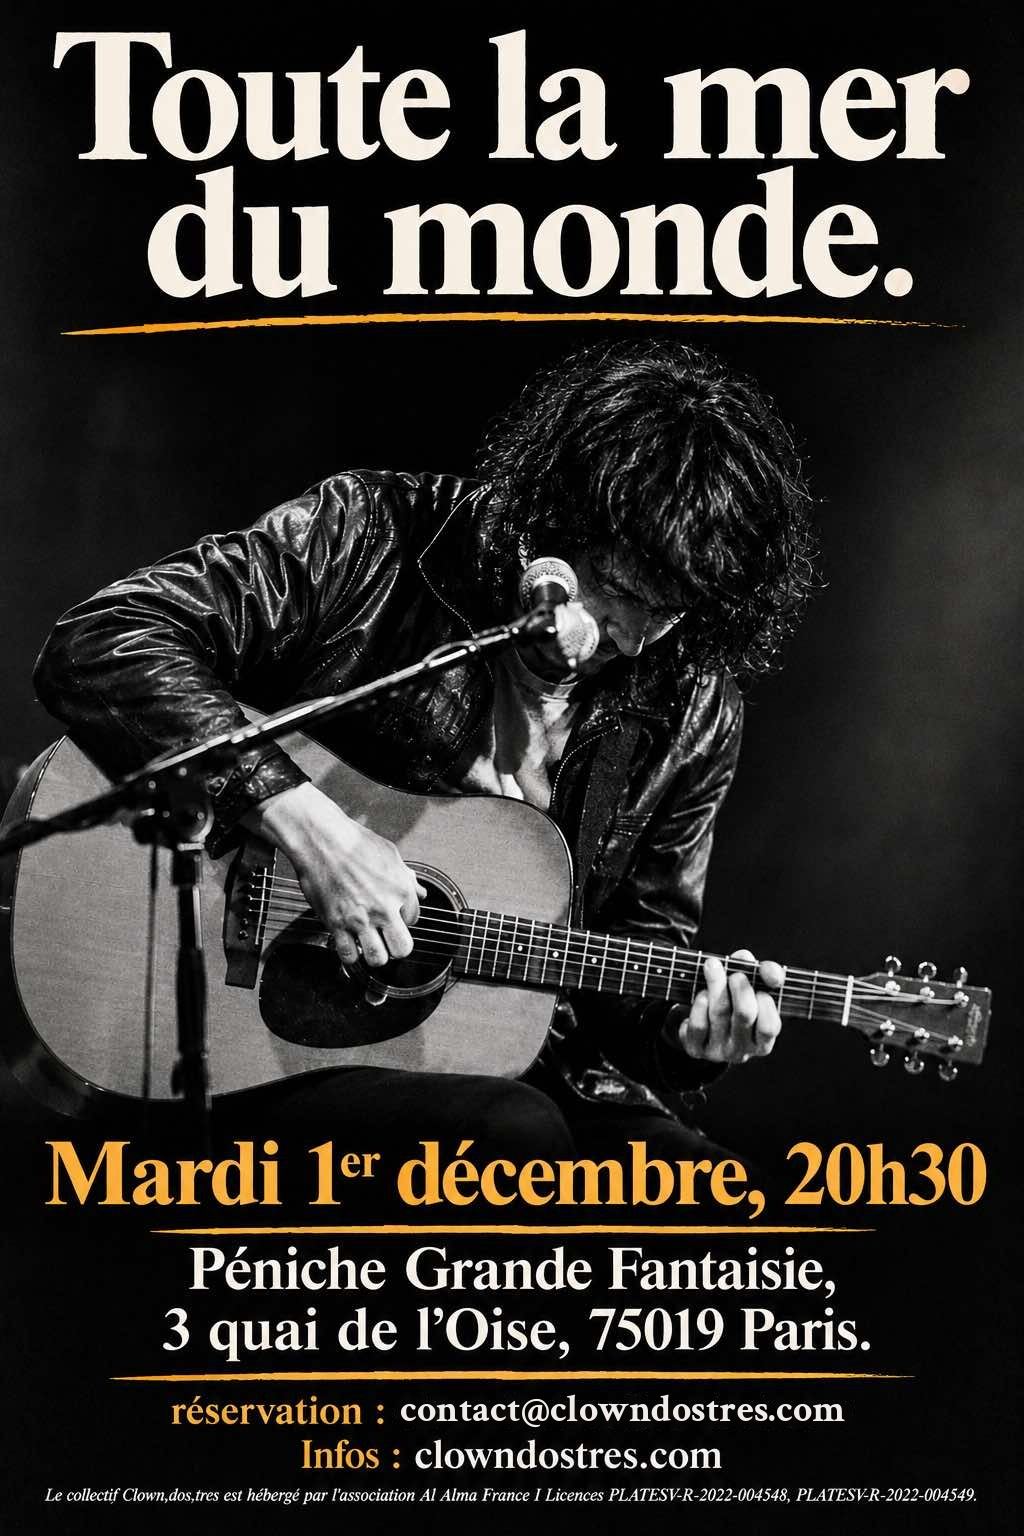
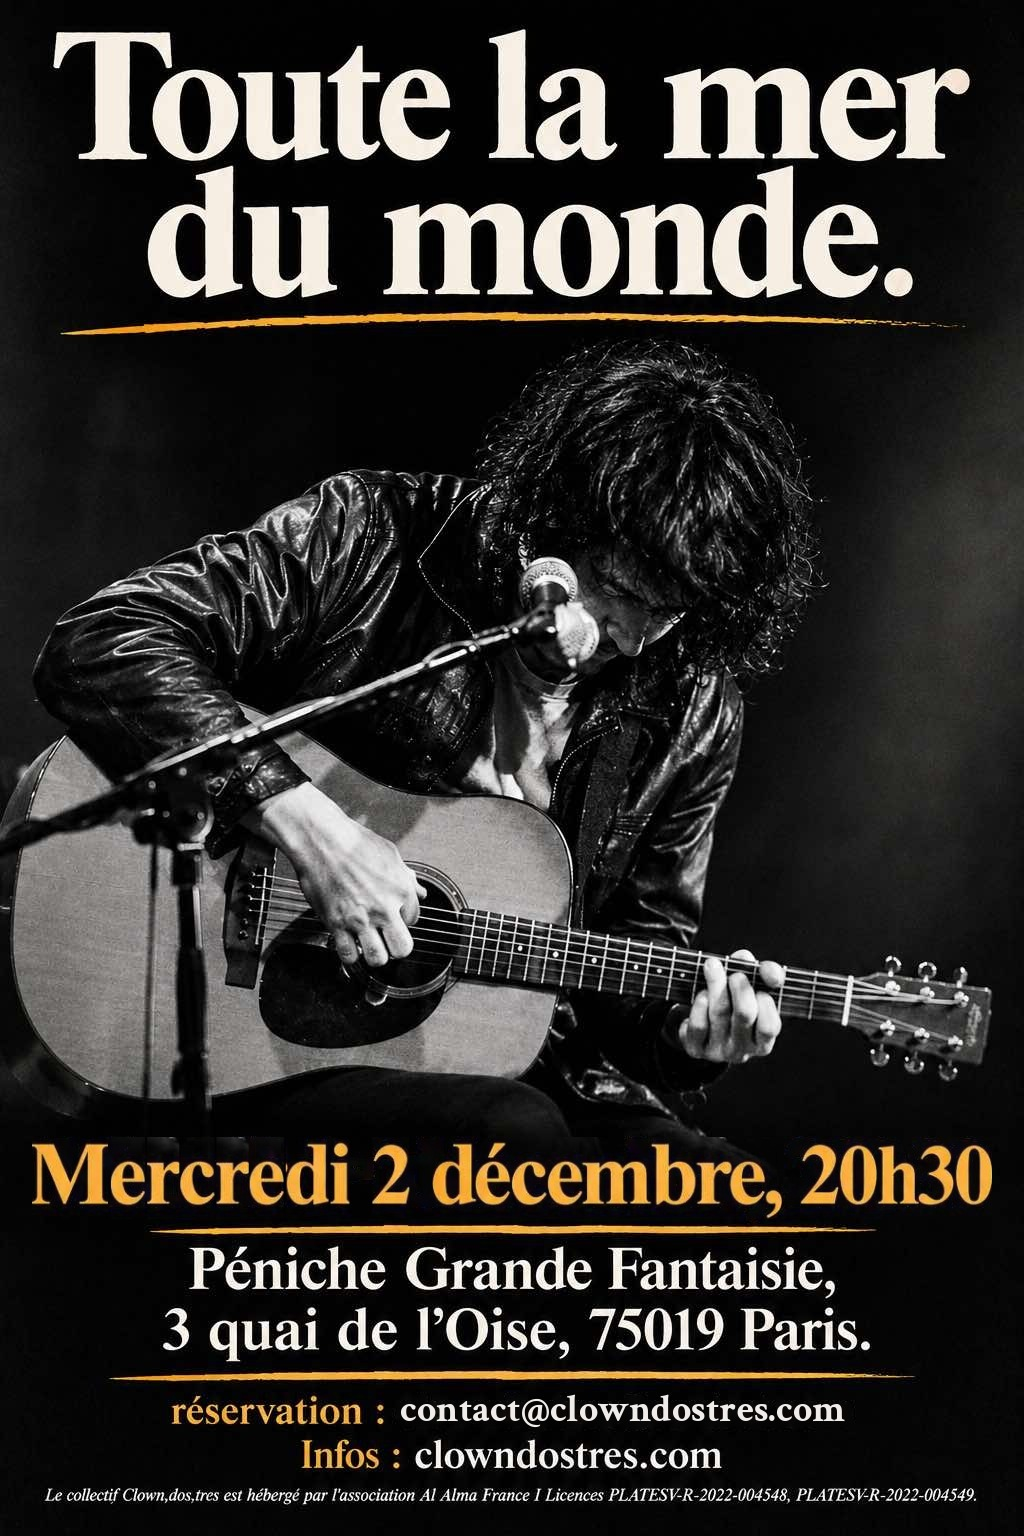
Toute la mer du monde : mercredi 2 décembre (affiche corrigée) ; stage retiré de la une

Changed region(s): [[0.0312, 0.7188, 0.9688, 0.8125]]

diff --git a/src/data/evenements.ts b/src/data/evenements.ts
@@ -77,8 +77,8 @@ export const evenements: Evenement[] = [
 		reservation: true,
 	},
 	{
-		date: 'Mardi 1er décembre 2026',
-		jour: '2026-12-01',
+		date: 'Mercredi 2 décembre 2026',
+		jour: '2026-12-02',
 		debut: '20:30',
 		heure: '20h30 · durée 65 min',
 		titre: 'Toute la mer du monde',
@@ -91,7 +91,7 @@ export const evenements: Evenement[] = [
 		compagnie: 'Alexis Delmastro',
 		type: 'concert',
 		image: merAffiche,
-		imageAlt: 'Affiche du concert Toute la mer du monde : Alexis Delmastro à la guitare, mardi 1er décembre 2026 à 20h30, Péniche Grande Fantaisie',
+		imageAlt: 'Affiche du concert Toute la mer du monde : Alexis Delmastro à la guitare, mercredi 2 décembre 2026 à 20h30, Péniche Grande Fantaisie',
 		photo: merPhoto,
 		photoAlt: 'Alexis Delmastro, guitare sur l’épaule, au bord d’un champ : visuel du spectacle Toute la mer du monde',
 		reservation: true,

diff --git a/src/data/actualites.ts b/src/data/actualites.ts
@@ -53,11 +53,6 @@ export const actualites: Actualite[] = [
 		imageAlt: 'Une clown au nez rouge et au casque à ressorts, dans « Cuántos Cuentos Cuentas », mis en scène par François Durègne à Mexico en 2011',
 		legende: '« Cuántos Cuentos Cuentas », mise en scène et dramaturgie François Durègne – Mexico, 2011',
 		flyer: flyerClownToujours,
-		aLaUne: {
-			titre: 'Stage « Clown toujours » avec François Durègne',
-			quand: '14-15 et 21-22 novembre · Théâtre de l’Opprimé, Paris 12e',
-			jusquAu: '2026-11-22',
-		},
 		evenement: {
 			debut: '2026-11-14',
 			fin: '2026-11-22',
